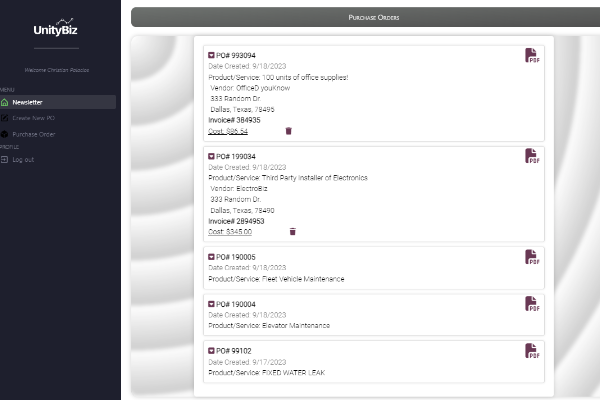
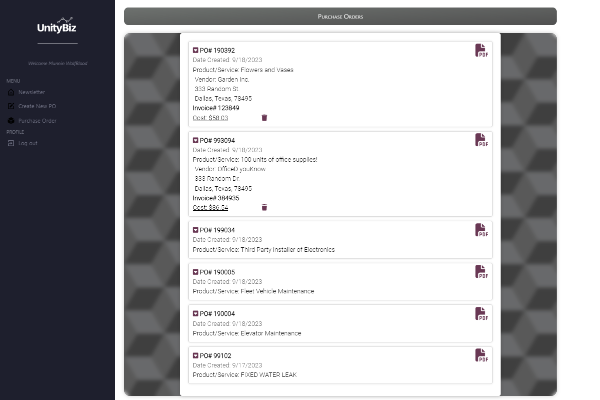
Added new screenshots, project information, improved effects and styling

diff --git a/src/content/portfolioContent.js b/src/content/portfolioContent.js
@@ -1,72 +1,123 @@
-import unityBiz from "../assets/project-photos/project-unitybiz.png"
-import techBlog from "../assets/project-photos/project-tech-blog.png"
-import noteLogger from "../assets/project-photos/project-note-logger.png"
-import vroomu from "../assets/project-photos/project-vroomu.png"
-import weatherDashboard from "../assets/project-photos/project-weather-dashboard.png"
-import workDay from "../assets/project-photos/project-work-day.png"
-import codeQuiz from "../assets/project-photos/project-code-quiz.png"
-import passwordGenerator from "../assets/project-photos/project-password-generator.png"
+import textEditor from "../assets/project-photos/project-text-editor.png";
+import socialAPI from "../assets/project-photos/project-social-network-api.png";
+import unityBiz from "../assets/project-photos/project-unitybiz.png";
+import techBlog from "../assets/project-photos/project-tech-blog.png";
+import eCommerce from "../assets/project-photos/project-ecommerce.png";
+import employeeCMS from "../assets/project-photos/project-employee-cms.png";
+import svgGenerator from "../assets/project-photos/project-svg-logo-generator.png";
+import noteLogger from "../assets/project-photos/project-note-logger.png";
+import readmeGenerator from "../assets/project-photos/peoject-readme-generator.png";
+import vroomu from "../assets/project-photos/project-vroomu.png";
+import weatherDashboard from "../assets/project-photos/project-weather-dashboard.png";
+import workDay from "../assets/project-photos/project-work-day.png";
+import codeQuiz from "../assets/project-photos/project-code-quiz.png";
+import passwordGenerator from "../assets/project-photos/project-password-generator.png";
 
 const portfolioContent = {
   title: "Portfolio",
   projects: [
     {
-      id: 1,
+      id: 14,
+      title: "Ultimate Text Editor",
+      imageUrl: `${textEditor}`,
+      deployedLink: "https://ultimate-text-editor-8e7837a44f32.herokuapp.com/",
+      githubRepo: "https://github.com/rune-encoder/Ultimate-Text-Editor",
+    },
+    {
+      id: 13,
+      title: "Social Network API",
+      imageUrl: `${socialAPI}`,
+      deployedLink: "https://www.youtube.com/watch?v=cfSfe3_7WBc",
+      githubRepo: "https://github.com/rune-encoder/Social-Network-API",
+    },
+    {
+      id: 12,
       title: "Unity Biz",
       imageUrl: `${unityBiz}`,
       deployedLink: "https://unitybiz-fd2efb602da8.herokuapp.com/",
-      githubRepo: "https://github.com/rune-encoder/UnityBiz"
+      githubRepo: "https://github.com/rune-encoder/UnityBiz",
     },
     {
-      id: 2,
+      id: 11,
       title: "Ultimate Tech Blog",
       imageUrl: `${techBlog}`,
       deployedLink: "https://u-tech-blog-84c6469a8f10.herokuapp.com/",
-      githubRepo: "https://github.com/rune-encoder/Ultimate-Tech-Blog"
+      githubRepo: "https://github.com/rune-encoder/Ultimate-Tech-Blog",
     },
     {
-      id: 3,
-      title: "Note Logger",
-      imageUrl: `${noteLogger}`,
-      deployedLink: "https://note-logger-03a612b15e73.herokuapp.com/",
-      githubRepo: "https://github.com/rune-encoder/Note-Logger"
+      id: 10,
+      title: "E-Commerce Backend",
+      imageUrl: `${eCommerce}`,
+      deployedLink: "https://www.youtube.com/watch?v=UUwZrEMcCjw",
+      githubRepo:
+        "https://github.com/rune-encoder/E-Commerce-Web-Application-BACK-END",
     },
     {
-      id: 4,
-      title: "Vroomu: A Vehicle Service Guide",
-      imageUrl: `${vroomu}`,
-      deployedLink: "https://gera1313.github.io/Vroomu-A-Vehicle-Service-Guide/",
-      githubRepo: "https://github.com/rune-encoder/Vroomu-A-Vehicle-Service-Guide"
-    },
-    {
-      id: 5,
-      title: "Weather Dashboard",
-      imageUrl: `${weatherDashboard}`,
-      deployedLink: "https://rune-encoder.github.io/Weather-Dashboard/",
-      githubRepo: "https://github.com/rune-encoder/Weather-Dashboard"
-    },
-    {
-      id: 6,
-      title: "Work Day Scheduler",
-      imageUrl: `${workDay}`,
-      deployedLink: "https://rune-encoder.github.io/Work-Day-Scheduler/",
-      githubRepo: "https://github.com/rune-encoder/Work-Day-Scheduler"
-    },
-    {
-      id: 7,
-      title: "Code Quiz",
-      imageUrl: `${codeQuiz}`,
-      deployedLink: "https://rune-encoder.github.io/Code-Quiz/",
-      githubRepo: "https://github.com/rune-encoder/Code-Quiz"
+      id: 9,
+      title: "Employee Tracker CMS",
+      imageUrl: `${employeeCMS}`,
+      deployedLink: "https://www.youtube.com/watch?v=MKeaD6Jyke8",
+      githubRepo: "https://github.com/rune-encoder/Employee-Tracker-CMS",
     },
     {
       id: 8,
+      title: "SVG Logo Generator",
+      imageUrl: `${svgGenerator}`,
+      deployedLink: "https://www.youtube.com/watch?v=b4VhrR389VU",
+      githubRepo: "https://github.com/rune-encoder/SVG-Logo-Generator",
+    },
+    {
+      id: 7,
+      title: "Note Logger",
+      imageUrl: `${noteLogger}`,
+      deployedLink: "https://ultimate-text-editor-8e7837a44f32.herokuapp.com/",
+      githubRepo: "https://github.com/rune-encoder/Note-Logger",
+    },
+    {
+      id: 6,
+      title: "README.md Generator",
+      imageUrl: `${readmeGenerator}`,
+      deployedLink: "https://www.youtube.com/watch?v=LupXOfxSzbc",
+      githubRepo: "https://github.com/rune-encoder/README.md-Generator",
+    },
+    {
+      id: 5,
+      title: "Vroomu: A Vehicle Service Guide",
+      imageUrl: `${vroomu}`,
+      deployedLink:
+        "https://gera1313.github.io/Vroomu-A-Vehicle-Service-Guide/",
+      githubRepo:
+        "https://github.com/rune-encoder/Vroomu-A-Vehicle-Service-Guide",
+    },
+    {
+      id: 4,
+      title: "Weather Dashboard",
+      imageUrl: `${weatherDashboard}`,
+      deployedLink: "https://rune-encoder.github.io/Weather-Dashboard/",
+      githubRepo: "https://github.com/rune-encoder/Weather-Dashboard",
+    },
+    {
+      id: 3,
+      title: "Work Day Scheduler",
+      imageUrl: `${workDay}`,
+      deployedLink: "https://rune-encoder.github.io/Work-Day-Scheduler/",
+      githubRepo: "https://github.com/rune-encoder/Work-Day-Scheduler",
+    },
+    {
+      id: 2,
+      title: "Code Quiz",
+      imageUrl: `${codeQuiz}`,
+      deployedLink: "https://rune-encoder.github.io/Code-Quiz/",
+      githubRepo: "https://github.com/rune-encoder/Code-Quiz",
+    },
+    {
+      id: 1,
       title: "Password Generator",
       imageUrl: `${passwordGenerator}`,
       deployedLink: "https://rune-encoder.github.io/Password-Generator/",
-      githubRepo: "https://github.com/rune-encoder/Password-Generator"
-    }
-  ]
-}
+      githubRepo: "https://github.com/rune-encoder/Password-Generator",
+    },
+  ],
+};
 
 export default portfolioContent;

diff --git a/src/styles/Portfolio.css b/src/styles/Portfolio.css
@@ -56,20 +56,44 @@
   text-align: center;
   border: none;
   border-radius: 5px;
-  color: var(--dark);
+  color: var(--always-light);
   cursor: pointer;
   transition: all 0.1s ease-in;
   filter: opacity(90%);
-  filter: drop-shadow(5px 3px 10px var(--opacity-medium));
+  filter: drop-shadow(5px 3px 10px var(--always-dark));
 }
 
 .proj-link-group a:hover {
   opacity: 100%;
-  color: var(--unique);
   filter: drop-shadow(5px 3px 10px var(--medium));
+  animation: pulse 1s linear infinite;
+  filter: drop-shadow(5px 3px 10px var(--always-dark));
 }
 
 /* =========================== Animations ========================== */
+
+@keyframes pulse {
+  0% {
+    color: var(--always-light);
+    transform: scale(1);
+  }
+  25% {
+    color: var(--unique);
+    transform: scale(0.98);
+  }
+  50% {
+    color: var(--primary);
+    transform: scale(0.96);
+  }
+  75% {
+    color: var(--unique);
+    transform: scale(0.98);
+  }
+  100% {
+    color: var(--always-light);
+    transform: scale(1);
+  }
+}
 
 @keyframes wiggle {
   0% {

diff --git a/src/styles/index.css b/src/styles/index.css
@@ -24,7 +24,7 @@
   --btn-right: #626e8a;
 
   /* Theme Color Style */
-  --unique: #7c6d14;
+  --unique: #e05717;
   --primary: #9e7528;
 }
 
@@ -80,7 +80,7 @@
   pointer-events: none;
   font-weight: bold;
   color: var(--btn-hover-left);
-  outline: .1px solid var(--light);
+  outline: 0.1px solid var(--light);
   background-color: var(--medium-dark);
   opacity: 0.8;
   transform: scale(0.92);

diff --git a/src/main.jsx b/src/main.jsx
@@ -7,7 +7,6 @@ import About from "./pages/About.jsx";
 import Portfolio from "./pages/Portfolio.jsx";
 import Contact from "./pages/Contact.jsx";
 import Resume from "./pages/Resume.jsx";
-// import Error from "./Error.jsx";
 
 import 'tailwindcss/tailwind.css';
 import "./styles/index.css";
